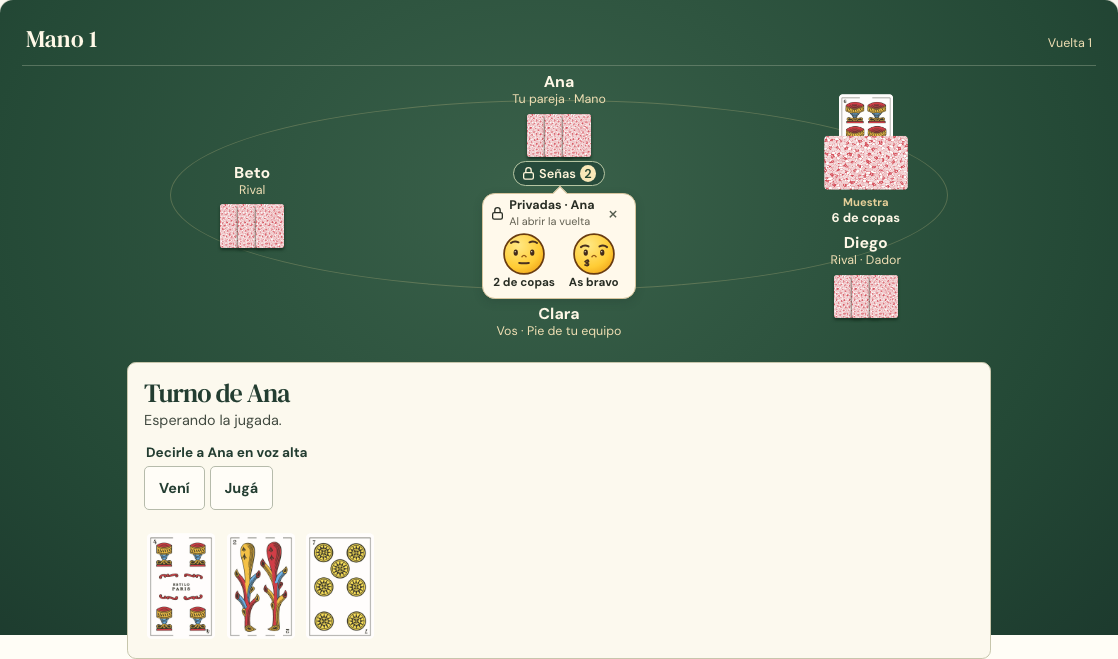
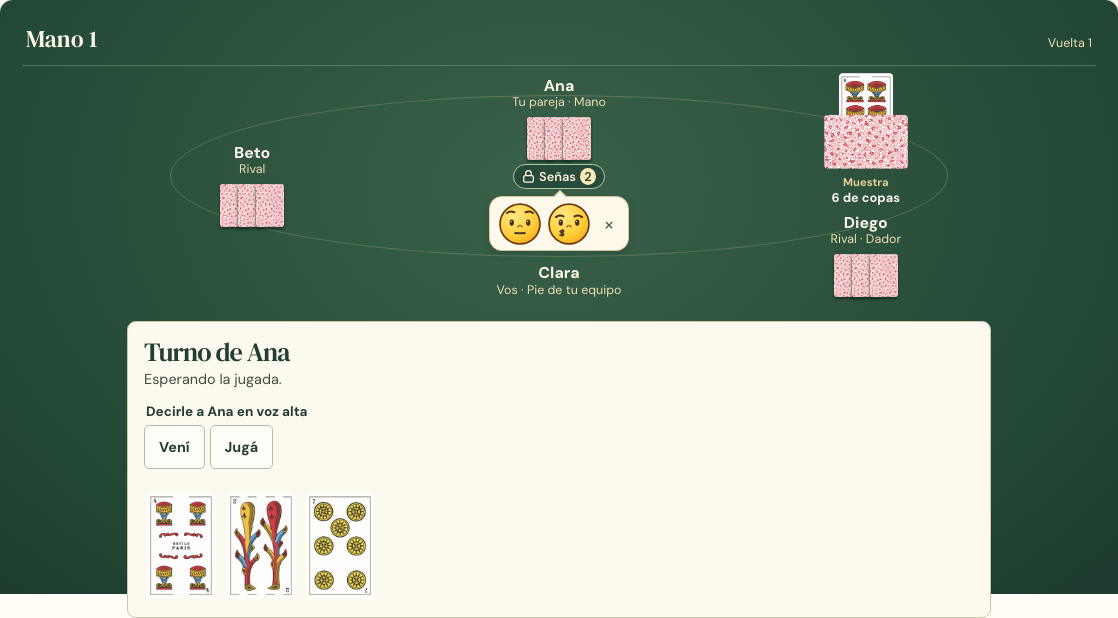
Repetir las señas mientras el globo esté abierto y mostrar solo los emojis

diff --git a/src/components/jugar/GloboDelCompanero.tsx b/src/components/jugar/GloboDelCompanero.tsx
@@ -10,7 +10,6 @@ type Nombre = (asiento: number) => string;
 export interface PieEnTapete {
   vista: VistaPie;
   mano: number;
-  llegadaEnVivo: boolean;
 }
 
 function significado(gesto: GestoPie, muestra: CardId) {
@@ -41,12 +40,21 @@ export function AccionesDelPie({ pie, nombre, bloqueada, decir }: {
   </div>;
 }
 
+function Gestos({ gestos, emisor, muestra }: { gestos: readonly GestoPie[]; emisor: string; muestra: CardId }) {
+  return <ul className="j-gestos" aria-live="polite" aria-atomic="true">
+    {gestos.map(gesto => <li key={gesto}
+      aria-label={`${emisor} · ${catalogoGestosPie[gesto].expresion} · ${significado(gesto, muestra)}`}>
+      <CaraSena gesto={gesto}/>
+    </li>)}
+  </ul>;
+}
+
 export function SenasEnviadas({ pie, muestra, nombre }: { pie: VistaPie; muestra: CardId; nombre: Nombre }) {
   const propias = pie.grupos[0];
   if (!propias) return null;
   return <details className="j-senas-enviadas">
     <summary>Tus señas a {nombre(pie.pie)} · {propias.gestos.length}</summary>
-    <p>Al abrir la vuelta · {propias.gestos.map(g => significado(g, muestra)).join(" · ")}</p>
+    <Gestos gestos={propias.gestos} emisor={nombre(propias.emisor)} muestra={muestra}/>
   </details>;
 }
 
@@ -59,15 +67,12 @@ function Candado() {
 }
 
 function alAbrir(datos?: PieEnTapete) {
-  const abierto = datos?.vista.grupos[0]?.emisor ?? null;
   return {
-    mano: datos?.mano, vuelta: datos?.vista.vuelta, abierto,
-    vistos: new Set<number>(abierto === null ? [] : [abierto]),
-    animar: Boolean(datos?.llegadaEnVivo),
+    mano: datos?.mano, vuelta: datos?.vista.vuelta, abierto: datos?.vista.grupos[0]?.emisor ?? null,
   };
 }
 
-// La selección y la reproducción son locales a esta vista y esta vuelta.
+// Al empezar la vuelta, el pie ve al primer compañero en el orden de juego.
 export function useGloboDelCompanero(datos: PieEnTapete | undefined, muestra: CardId, nombre: Nombre) {
   const id = useId();
   const franja = useRef<HTMLDivElement>(null);
@@ -80,7 +85,7 @@ export function useGloboDelCompanero(datos: PieEnTapete | undefined, muestra: Ca
 
   function cerrar() {
     if (emisor !== undefined) anclas.current.get(emisor)?.focus();
-    cambiar(e => ({ ...e, abierto: null, animar: false }));
+    cambiar(e => ({ ...e, abierto: null }));
   }
   useEffect(() => {
     if (emisor === undefined) return;
@@ -126,27 +131,14 @@ export function useGloboDelCompanero(datos: PieEnTapete | undefined, muestra: Ca
         if (el) anclas.current.set(asiento, el);
         else anclas.current.delete(asiento);
       }}
-      onClick={() => cambiar(e => ({
-        ...e, abierto: abierto ? null : senas.emisor, vistos: new Set([...e.vistos, asiento]),
-        animar: !e.vistos.has(asiento) && Boolean(datos?.llegadaEnVivo),
-      }))}>
+      onClick={() => cambiar(e => ({ ...e, abierto: abierto ? null : senas.emisor }))}>
       <Candado/> Señas <span>{senas.gestos.length}</span>
     </button>;
   }
   const contenido = grupo && <div className="j-franja-globo" ref={franja}>
     <section id={id} className="j-globo-senas" aria-label={"Señas privadas de " + nombre(grupo.emisor)}>
-      <div className="j-globo-cabecera">
-        <Candado/>
-        <div><b>Privadas · {nombre(grupo.emisor)}</b><small>Al abrir la vuelta</small></div>
-        <button type="button" className="j-cerrar-globo" aria-label="Cerrar señas" onClick={cerrar}>×</button>
-      </div>
-      <ul key={estado.mano + "." + estado.vuelta + "." + grupo.emisor} aria-live="polite" aria-atomic="true">
-        {grupo.gestos.map(gesto => <li key={gesto}
-          aria-label={`${nombre(grupo.emisor)} · ${catalogoGestosPie[gesto].expresion} · ${significado(gesto, muestra)}`}>
-          <CaraSena gesto={gesto} animar={estado.animar && Boolean(datos?.llegadaEnVivo)}/>
-          <span>{significado(gesto, muestra)}</span>
-        </li>)}
-      </ul>
+      <Gestos gestos={grupo.gestos} emisor={nombre(grupo.emisor)} muestra={muestra}/>
+      <button type="button" className="j-cerrar-globo" aria-label="Cerrar señas" onClick={cerrar}>×</button>
     </section>
   </div>;
   return { boton, contenido };

diff --git a/src/components/jugar/senas-pie.css b/src/components/jugar/senas-pie.css
@@ -10,16 +10,18 @@
 .j-cara-sena .j-cara-lengua { transform-origin: 32px 46px; }
 .j-cara-sena .j-cara-neutra { opacity: 0; }
 @media (prefers-reduced-motion: no-preference) {
-  .j-cara-sena[data-animar] :is(.j-cara-cejas,.j-cara-boca,.j-cara-nariz,.j-cara-guino) {
-    animation: j-hacer-sena .7s cubic-bezier(.37,0,.2,1) both;
-  }
-  .j-cara-sena[data-animar] .j-cara-neutra { animation: j-neutra .7s ease-out both; }
-  .j-cara-sena[data-animar] .j-cara-pliegue { animation: j-fruncir .7s ease-out both; }
-  .j-cara-sena[data-animar] :is(.j-cara-apertura,.j-cara-lengua) { animation: j-abrir-boca .7s ease-out both; }
+  .j-cara-sena { --ciclo-sena: 1s ease-in-out infinite alternate; }
+  .j-cara-sena[data-gesto="cejas"] .j-cara-cejas,
+  .j-cara-sena[data-gesto="nariz"] .j-cara-nariz,
+  .j-cara-sena:is([data-gesto="beso"], [data-gesto^="labios-"]) .j-cara-boca,
+  .j-cara-sena .j-cara-guino { animation: j-hacer-sena var(--ciclo-sena); }
+  .j-cara-sena .j-cara-neutra { animation: j-neutra var(--ciclo-sena); }
+  .j-cara-sena .j-cara-pliegue { animation: j-fruncir var(--ciclo-sena); }
+  .j-cara-sena :is(.j-cara-apertura, .j-cara-lengua) { animation: j-abrir-boca var(--ciclo-sena); }
 }
 @keyframes j-hacer-sena { 0%,15% { transform: none; } }
-@keyframes j-fruncir { 0%,15% { opacity: 0; } 100% { opacity: 1; } }
-@keyframes j-abrir-boca { 0%,15% { transform: scaleY(.14); } 100% { transform: scaleY(1); } }
+@keyframes j-fruncir { 0%,15% { opacity: 0; } 75%,100% { opacity: 1; } }
+@keyframes j-abrir-boca { 0%,15% { transform: scaleY(.14); } 75%,100% { transform: scaleY(1); } }
 @keyframes j-neutra { 0%,15% { opacity: 1; } 75%,100% { opacity: 0; } }
 .j-tapete--jugador > .j-puestos:is(.j-parejas, .j-puestos-seis).j-con-senas {
   grid-template-columns: repeat(3,minmax(0,1fr));
@@ -58,18 +60,14 @@
   padding:.2rem .5rem; border:1px solid #b6c5a2; border-radius:1rem; background:#274b3b; color:#fff5da; font:600 .8rem var(--sans,system-ui); }
 .j-boton-senas span { background:#f9e8b8; color:#254632; border-radius:50%; min-width:1.25em; }
 .j-franja-globo { grid-area:globo; width:100%; position:relative; }
-.j-globo-senas { position:relative; text-align:left; isolation:isolate; border:1px solid #d6c49d; border-radius:.8rem;
-  padding:.35rem .55rem .55rem; width:max-content; max-width:100%; background:#fff9eb; color:#282d24; box-shadow:0 3px 10px #182e2733; }
+.j-globo-senas { position:relative; display:flex; align-items:center; gap:.25rem; isolation:isolate; border:1px solid #d6c49d; border-radius:.8rem;
+  padding:.3rem .35rem .3rem .5rem; width:max-content; max-width:100%; background:#fff9eb; color:#282d24; box-shadow:0 3px 10px #182e2733; }
 .j-globo-senas::before {content:"";position:absolute;top:-.32rem;left:var(--punta,50%);width:.6rem;height:.6rem;
   background:#fff9eb; border-left:1px solid #d6c49d; border-top:1px solid #d6c49d;transform:translateX(-50%) rotate(45deg);z-index:-1;}
-.j-globo-cabecera {display:flex;gap:.3rem;align-items:center;font-size:.78rem;line-height:1.1;}
-.j-globo-cabecera b {overflow-wrap:anywhere;}
-.j-globo-cabecera > div {display:grid;gap:.18rem;}
-.j-globo-cabecera small {font-size:.68rem;color:#615f51;}
-.j-cerrar-globo { margin-left:auto; padding:0; border:none; background:transparent; color:#555d4f;
+.j-cerrar-globo { padding:0; border:none; background:transparent; color:#555d4f;
   font-size:1.25rem;line-height:1;min-width:1.7rem;height:1.7rem; }
-.j-globo-senas ul {display:flex;align-items:start;justify-content:center;gap:.45rem;list-style:none;margin:.25rem 0 0;padding:0;}
-.j-globo-senas li {width:3.9rem;min-width:0;text-align:center;font-size:.73rem;font-weight:650;line-height:1.15;}
+.j-gestos { display:flex; flex-wrap:wrap; align-items:center; gap:.35rem; list-style:none; margin:0; padding:0; }
+.j-senas-enviadas .j-gestos { margin-top:.3rem; }
 .j-indicaciones-pie {display:flex;flex-wrap:wrap;gap:.25rem 1.25rem;}
 .j-indicaciones-pie .j-cantos {justify-content:flex-start;}
 .j-indicaciones-pie fieldset {min-width:0;margin:.4rem 0;padding:.35rem 0;border:0;}

diff --git a/src/components/jugar/CaraSena.tsx b/src/components/jugar/CaraSena.tsx
@@ -2,13 +2,13 @@ import { useId } from "react";
 import type { GestoPie } from "../../motor/senas-pie";
 
 // Las coordenadas siempre miran al emisor de frente. Su lado derecho queda a nuestra izquierda.
-export function CaraSena({ gesto, animar }: { gesto: GestoPie; animar: boolean }) {
+export function CaraSena({ gesto }: { gesto: GestoPie }) {
   const degradado = useId();
   const besito = gesto === "beso" || gesto.startsWith("labios-");
   const lengua = gesto === "lengua";
   const mordida = gesto === "labio-inferior";
   const abrir = gesto === "boca" || lengua || mordida;
-  return <svg className="j-cara-sena" data-gesto={gesto} data-animar={animar || undefined}
+  return <svg className="j-cara-sena" data-gesto={gesto}
     viewBox="0 0 64 64" aria-hidden="true" focusable="false">
     <defs><radialGradient id={degradado} cx=".36" cy=".28" r=".79">
       <stop stopColor="#ffe884"/><stop offset=".7" stopColor="#ffcc35"/><stop offset="1" stopColor="#f2a81c"/>

diff --git a/src/components/jugar/Tercetos.tsx b/src/components/jugar/Tercetos.tsx
@@ -132,7 +132,7 @@ export function MesaDeTercetos({ mesa, partida: recibida, base, bloqueada: ocupa
             reemplazaJugada: Boolean(carta && prueba?.cartas.includes(carta)),
           };
         }}
-        pie={pie && {vista:pie, mano:partida.manoNumero, llegadaEnVivo:Boolean(partida.llegadaEnVivo)}}
+        pie={pie && {vista:pie, mano:partida.manoNumero}}
         zonaJugador={<ZonaJugador titulo={estadoRed ?? titulo ?? "Esperando la jugada"} bloqueada={bloqueada}
           detalle={<>
             {aviso && <p className="j-aviso">{aviso}</p>}

diff --git a/src/components/jugar/Tablero.tsx b/src/components/jugar/Tablero.tsx
@@ -227,7 +227,7 @@ export function EnJuego({
               reemplazaJugada: Boolean(carta && prueba?.cartas.includes(carta)),
             };
           }}
-          pie={pie && {vista:pie, mano:partida.manoNumero, llegadaEnVivo:Boolean(partida.llegadaEnVivo)}}
+          pie={pie && {vista:pie, mano:partida.manoNumero}}
           zonaJugador={<ZonaJugador
             titulo={estadoRed ?? titulo}
             bloqueada={bloqueada}
